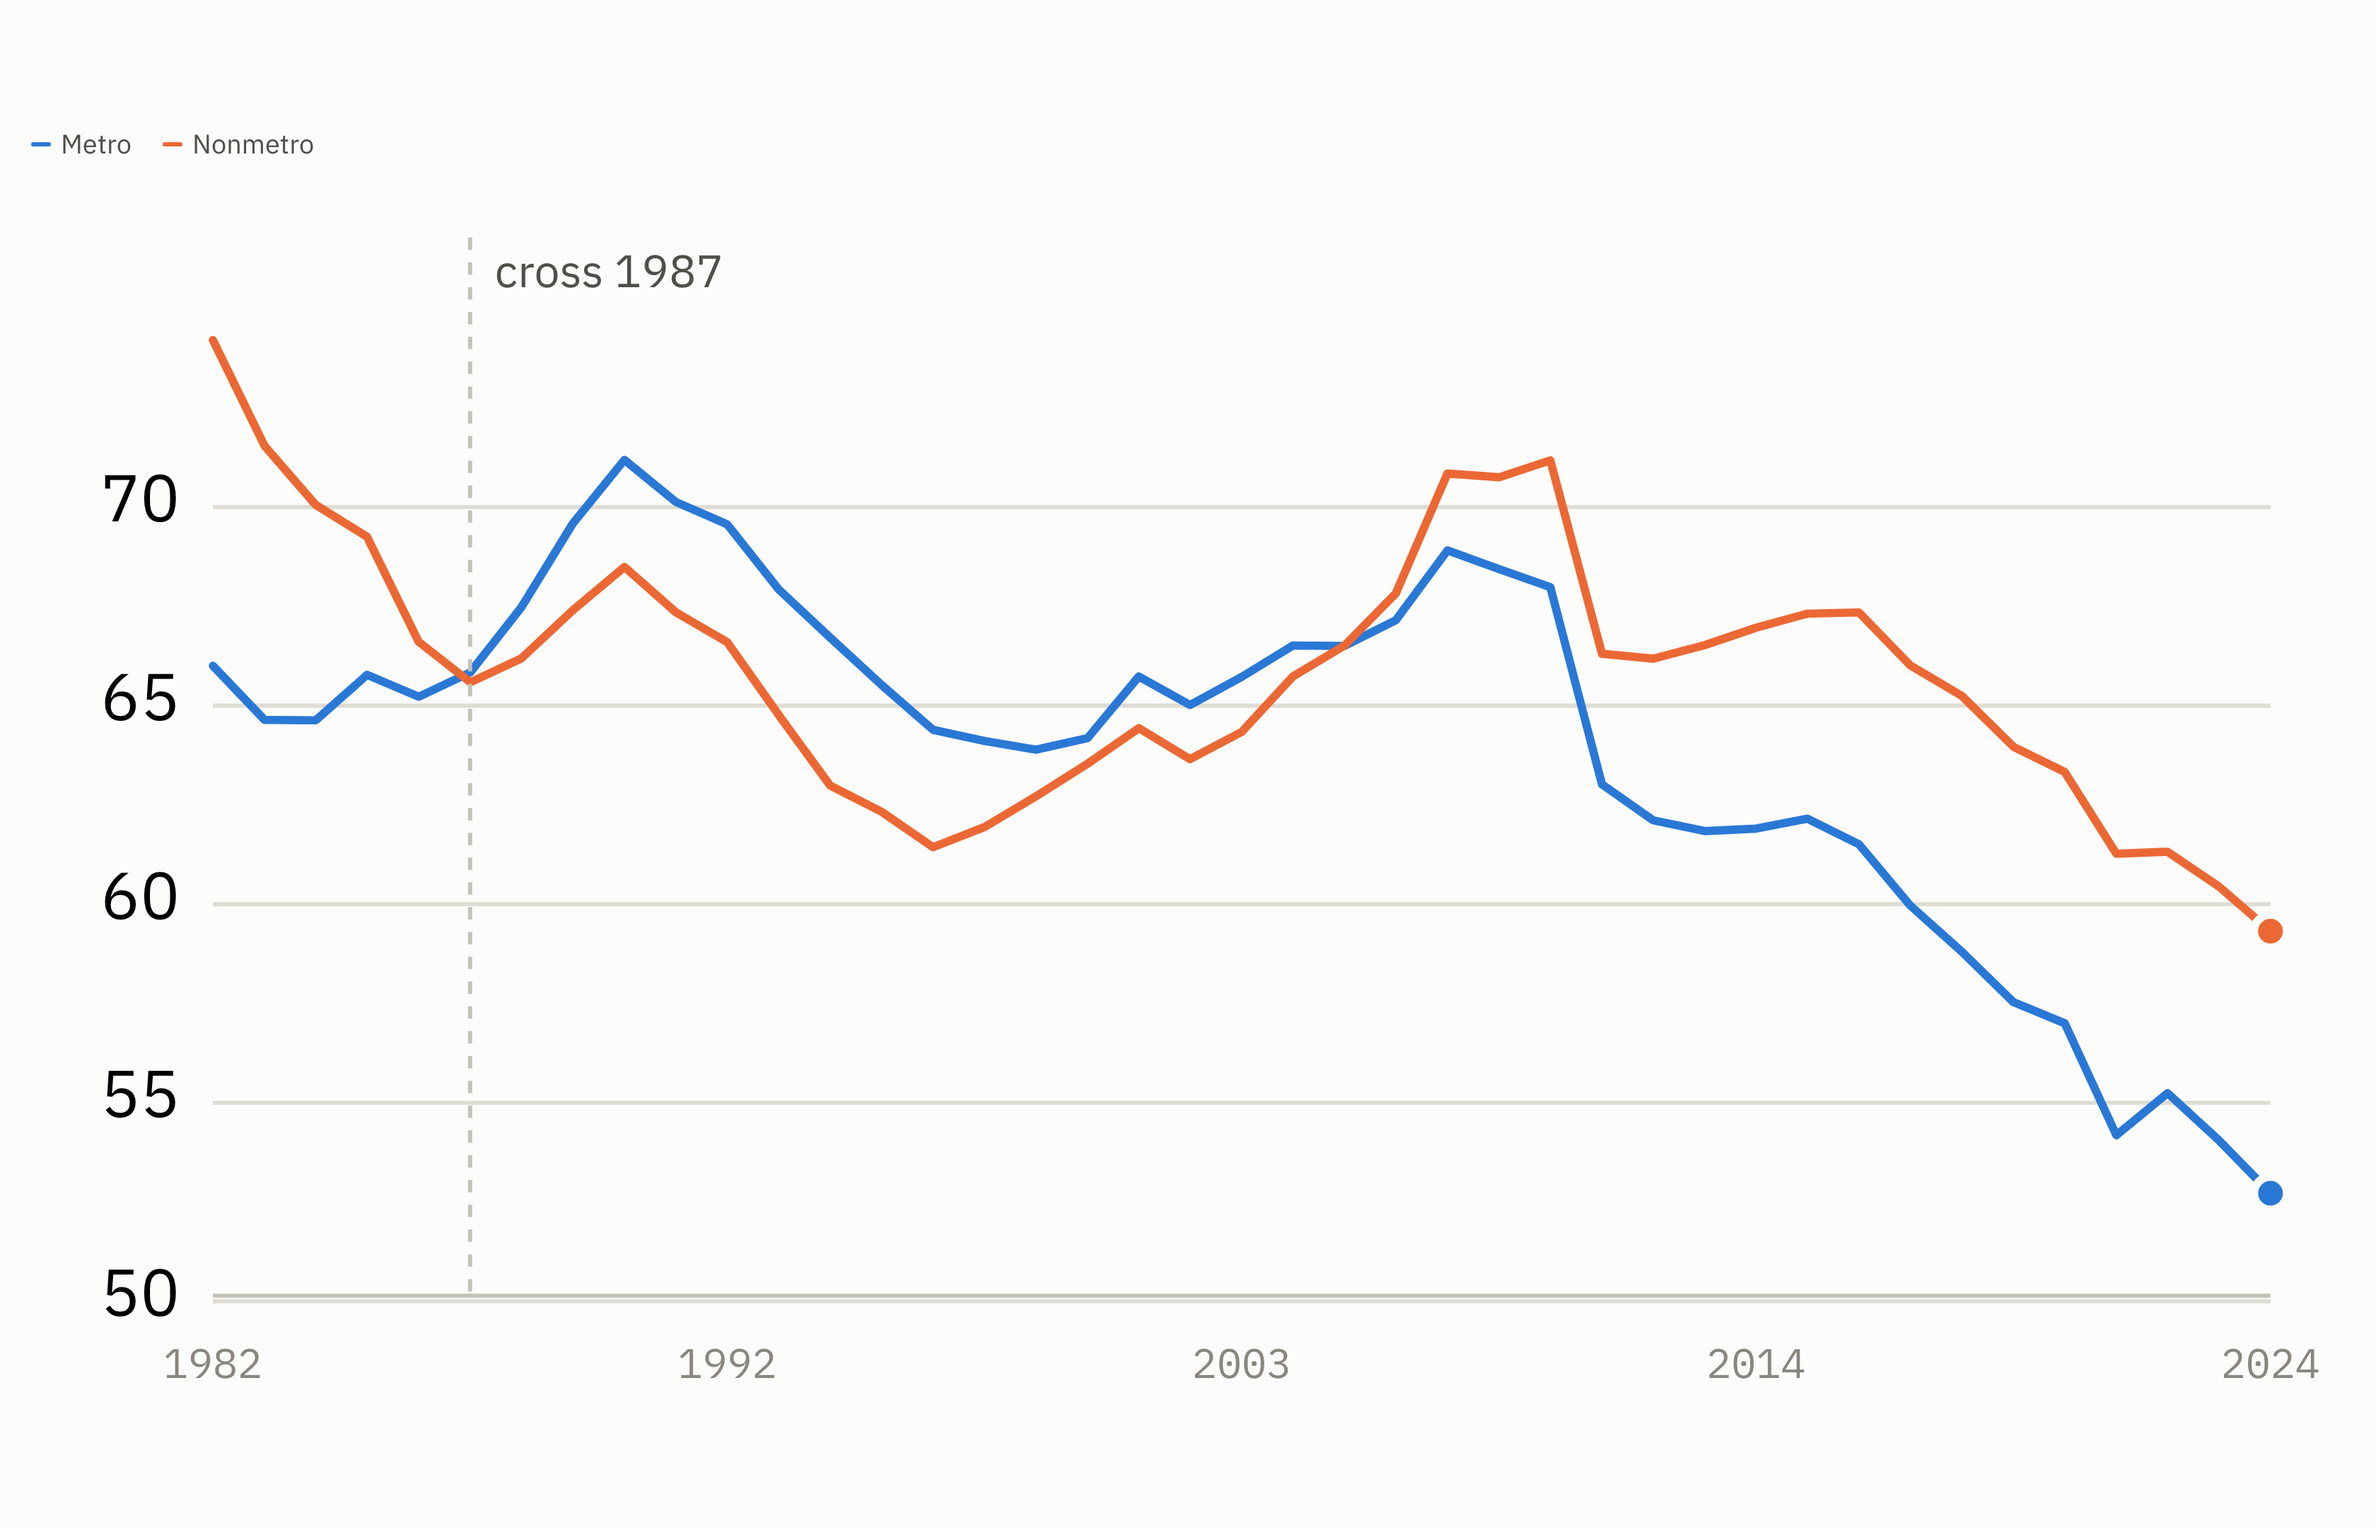
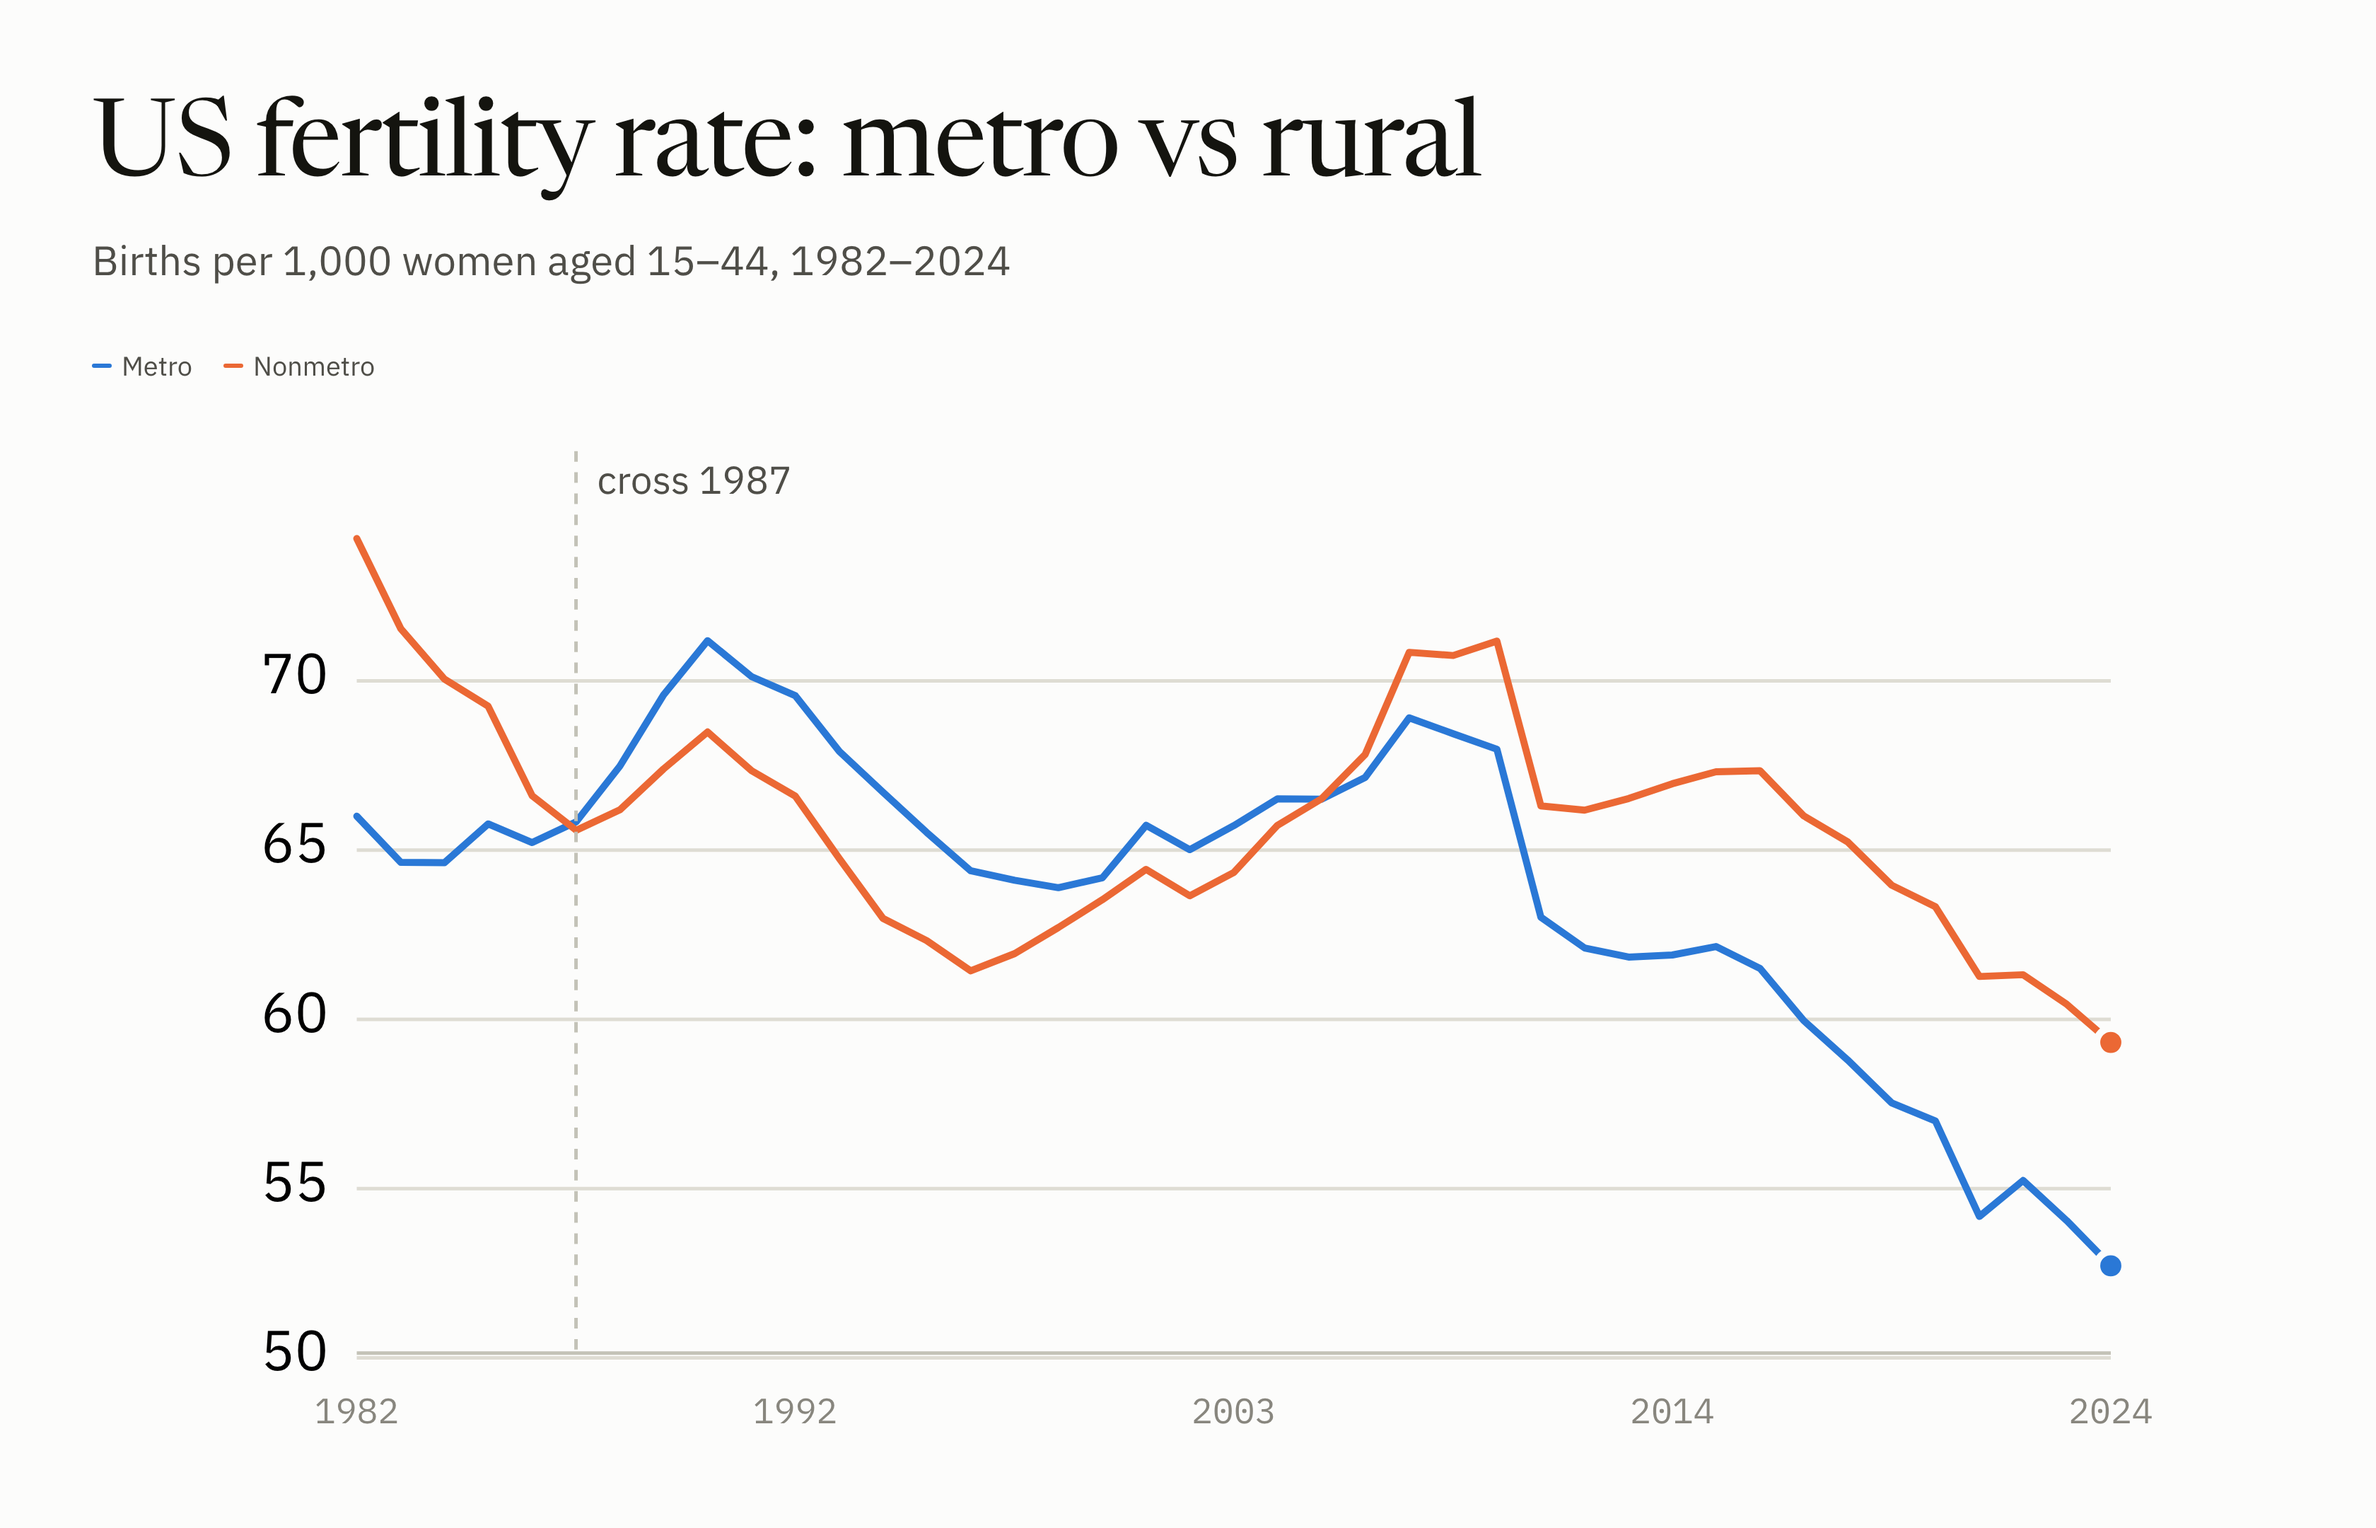
Put a headline on the hero chart
Two lines and an axis do not read as a card at thumbnail size, which is where
a hero actually gets seen. The hero export now carries a headline and a deck,
set in the page's own serif so it matches the site rather than looking like a
separate asset.

CHARTS entries take an optional dict of hero text, passed through the export
URL, so any chart can become a titled card without a second code path. The
headline takes vertical space, so the chart flexes down to fit instead of
running off the bottom of a fixed frame.

Only the hero is affected; the other twelve exports are byte identical.

Claude-Session: https://claude.ai/code/session_01Dqn3Ph8CXQZqqXmTpYHSoa

diff --git a/viz/export_charts.py b/viz/export_charts.py
@@ -10,6 +10,7 @@ from __future__ import annotations
 import json
 import subprocess
 import sys
+from urllib.parse import quote
 from pathlib import Path
 
 ROOT = Path(__file__).resolve().parents[1]
@@ -26,8 +27,12 @@ CHARTS = [
     ("__map__", "hero-fertility-map-1680x1080", (1680, 1080)),
     ("chart-gfr", "01-metro-vs-nonmetro-rate", (720, 400)),
     # hero for the analysis post: its own central chart, so it does not share
-    # a hero with the data page and show up identically in every listing
-    ("chart-gfr", "01-hero-metro-vs-rural-1680x1080", (1680, 1080)),
+    # a hero with the data page and show up identically in every listing. A
+    # bare chart does not read as a card at thumbnail size, so it carries a
+    # headline the way a magazine opener would.
+    ("chart-gfr", "01-hero-metro-vs-rural-1680x1080", (1680, 1080),
+     {"title": "US fertility rate: metro vs rural",
+      "sub": "Births per 1,000 women aged 15\u201344, 1982\u20132024"}),
     ("chart-cfr", "01-age-standardized", (720, 400)),
     ("chart-national", "01-national-level", (720, 400)),
     ("chart-gap", "01-the-gap", (720, 400)),
@@ -64,6 +69,22 @@ BOOTSTRAP = """
     `position:fixed;inset:0;width:${W}px;height:${H}px;background:var(--surface);`
     + "display:flex;flex-direction:column;justify-content:center;"
     + "padding:18px 22px;box-sizing:border-box;overflow:hidden;z-index:9999";
+
+  // A hero needs to say what it is. Rendered from the page's own type scale so
+  // it matches the site rather than looking like a separate asset.
+  const heroTitle = params.get("title"), heroSub = params.get("sub");
+  if (heroTitle){
+    const head = document.createElement("div");
+    head.style.cssText = "margin:0 0 26px 0";
+    head.innerHTML =
+      `<div style="font-family:Newsreader,Georgia,serif;font-size:${Math.round(W/22)}px;`
+      + `line-height:1.08;letter-spacing:-.02em;color:var(--ink)">${heroTitle}</div>`
+      + (heroSub ? `<div style="font-size:${Math.round(W/58)}px;color:var(--ink-2);`
+                 + `margin-top:${Math.round(W/120)}px">${heroSub}</div>` : "");
+    frame.appendChild(head);
+    frame.style.justifyContent = "flex-start";
+    frame.style.padding = `${Math.round(W/26)}px ${Math.round(W/26)}px ${Math.round(W/34)}px`;
+  }
 
   let node;
   if (want === "__map__"){
@@ -127,6 +148,20 @@ BOOTSTRAP = """
     }
   }
   frame.appendChild(node);
+  if (heroTitle){
+    // the headline takes real vertical space, so the chart has to give some
+    // back rather than run off the bottom of a fixed-size frame
+    node.style.flex = "1 1 auto";
+    node.style.minHeight = "0";
+    const svg = node.querySelector("svg");
+    if (svg){
+      svg.removeAttribute("height");
+      svg.style.width = "100%";
+      svg.style.height = "100%";
+      svg.style.maxHeight = "none";
+      svg.setAttribute("preserveAspectRatio", "xMidYMid meet");
+    }
+  }
   document.body.innerHTML = "";
   document.body.style.cssText = "margin:0;background:var(--surface)";
   document.body.appendChild(frame);
@@ -146,9 +181,11 @@ def main() -> None:
     inject = (f"<script>window.__BACKTEST__ = {BACKTEST.read_text()};</script>")
     export_page.write_text(src + inject + BOOTSTRAP)
 
-    for chart_id, name, (w, h) in CHARTS:
+    for chart_id, name, (w, h), *rest in CHARTS:
         dest = OUT / f"{name}.png"
         url = f"file://{export_page}?chart={chart_id}&w={w}&h={h}"
+        if rest:
+            url += "".join(f"&{k}={quote(v)}" for k, v in rest[0].items())
         subprocess.run(
             [CHROME, "--headless", "--disable-gpu", "--no-sandbox", "--hide-scrollbars",
              # belt and braces with the data-theme above: this settles the
